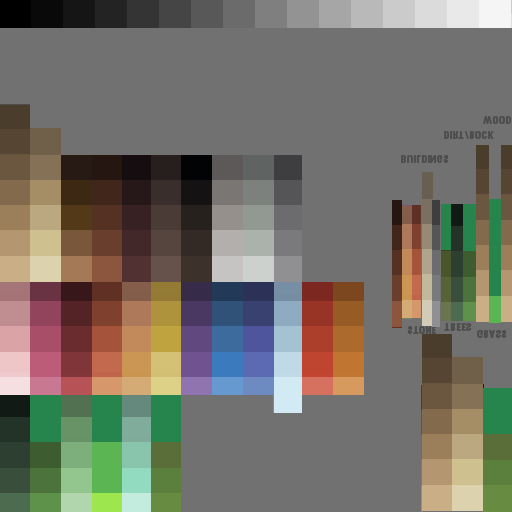
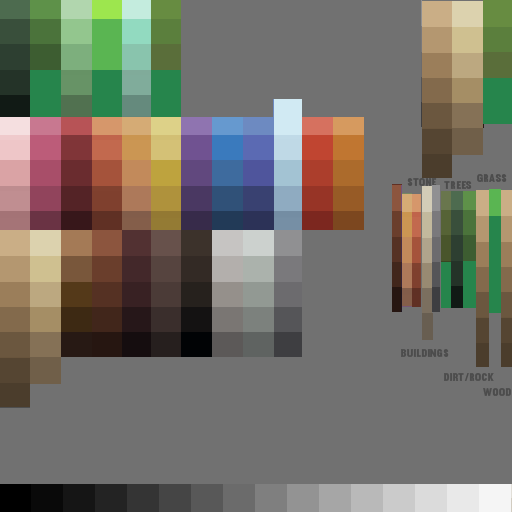
fix y flipping

diff --git a/src/states/game/spawnLevel.ts b/src/states/game/spawnLevel.ts
@@ -5,6 +5,7 @@ import { BoxGeometry, Euler, Group, Mesh, Quaternion, Vector3 } from 'three'
 import { enemyBundle } from '../dungeon/enemies'
 import type { EntityInstance, LayerInstance, Level } from '@/LDTKMap'
 import { getModel, props } from '@/debug/props'
+import type { InstanceHandle } from '@/global/assetLoaders'
 import { instanceMesh } from '@/global/assetLoaders'
 import { assets, ecs, levelsData } from '@/global/init'
 import type { DungeonRessources, FarmRessources } from '@/global/states'
@@ -50,6 +51,7 @@ export const spawnGroundAndTrees = (layer: LayerInstance) => {
 		...bundle,
 	})
 	const trees = Object.values(assets.trees).map(instanceMesh)
+	const treesInstances: InstanceHandle[] = []
 	const noise = createNoise3D(() => 0)
 	for (let i = 0; i < layer.intGridCsv.length; i++) {
 		const val = layer.intGridCsv[i]
@@ -64,8 +66,11 @@ export const spawnGroundAndTrees = (layer: LayerInstance) => {
 			const size = 3 + ((val === GroundType.TreeSmall ? 1 : 2) * Math.abs(noise(x, y, x)))
 			const treeGenerator = trees[Math.floor(trees.length * Math.abs(Math.sin((x + y) * 50 * (x - y))))]
 			const instanceHandle = treeGenerator.addAt(position, size, new Euler(0, noise(x, y, x), 0))
+			if (val === GroundType.TreeSmall) {
+				treesInstances.push(instanceHandle)
+			}
 			const treeSize = getSize(treeGenerator.glb.scene).multiplyScalar(size)
-			const tree = ecs.add({
+			ecs.add({
 				inMap: true,
 				position,
 				instanceHandle,
@@ -74,15 +79,15 @@ export const spawnGroundAndTrees = (layer: LayerInstance) => {
 				bodyDesc: RigidBodyDesc.fixed().lockRotations(),
 				colliderDesc: ColliderDesc.cylinder(treeSize.y / 2, treeSize.x / 2),
 			})
-			if (val === GroundType.TreeSmall) {
-				ecs.update(tree, { tree: true })
-			}
 		}
 	}
 	trees.forEach((t) => {
 		const group = t.process()
 		ecs.add({ group, inMap: true })
 	})
+	for (const treesInstance of treesInstances) {
+		treesInstance.setUniform('playerZ', 1)
+	}
 }
 const treeQuery = ecs.with('tree', 'position', 'instanceHandle')
 export const updateTreeOpacity = () => {

diff --git a/src/states/game/movePlayer.ts b/src/states/game/movePlayer.ts
@@ -25,6 +25,7 @@ export const applyMove = () => {
 	for (const entity of movementQuery) {
 		const { body, rotation, stateMachine, movementForce, speed, state } = entity
 		const force = movementForce.clone().multiplyScalar(speed * params.speedUp * time.delta)
+		force.setY(0)
 		const moving = force.length() > 0
 		moving && rotation.setFromAxisAngle(new Vector3(0, 1, 0), Math.atan2(force.x, force.z))
 		if (state !== 'picking' && state !== 'waitingAttack') {

diff --git a/src/debug/EntityEditor.tsx b/src/debug/EntityEditor.tsx
@@ -159,6 +159,7 @@ export const EntityEditor = ({ entity, levelData, setLevelData, setSelectedEntit
 									img.src = e.target?.result as string
 									const text = new CanvasTexture(img)
 									text.colorSpace = SRGBColorSpace
+									text.flipY = false
 									const mat = new ToonMaterial({ map: text })
 									entity().model.traverse((x) => {
 										if (x instanceof Mesh) {

diff --git a/src/global/assets.ts b/src/global/assets.ts
@@ -41,6 +41,7 @@ const loadGLBAsToon = (options?: { src?: string, color?: ColorRepresentation, ma
 		} else {
 			const texture = new CanvasTexture(await loadImage(path))
 			texture.colorSpace = SRGBColorSpace
+			texture.flipY = false
 			return texture
 		}
 	})
